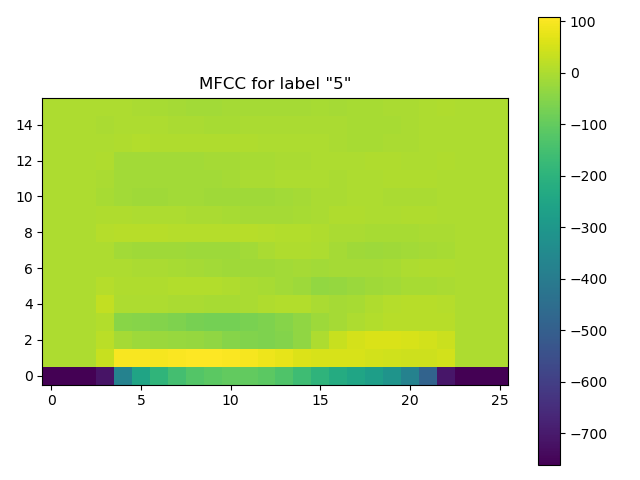
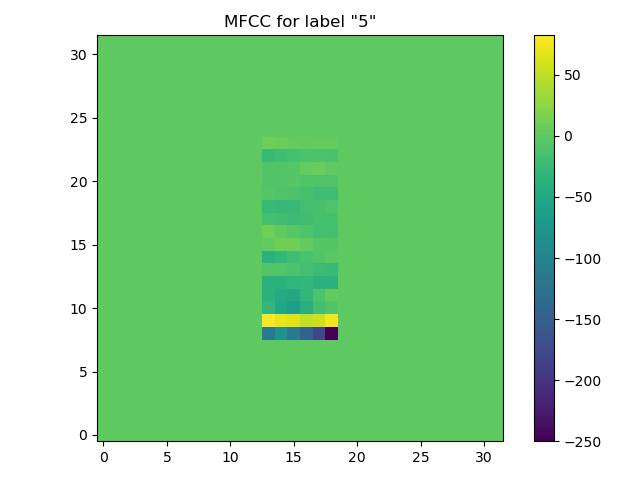
Edited plt for epoch print & editing of mfcc shape

diff --git a/datasets/mfcc_dataset.py b/datasets/mfcc_dataset.py
@@ -10,8 +10,8 @@ import torch.nn.functional as F
 import utils.audioProcessing as audioProcessing
 
 class MFCCDataset(Dataset):
-    def __init__(self, data_path, sample_rate, max_length,
-                hop_length=512, n_samples=16, channel_in=1):
+    def __init__(self, data_path, sample_rate, max_shape,
+                hop_length=512, n_samples=16, channel_in=1, max_length=None):
         print("-----MFCC Dataset creation-----\n")
         self.data_path = str(data_path)
         self.data = []
@@ -19,12 +19,15 @@ class MFCCDataset(Dataset):
         for src_file in os.listdir(data_path):
             full_path = os.path.join(data_path, src_file)
             audio, _ = librosa.load(full_path, mono=True, sr=sample_rate)
+            # Remove silence
             audio = audioProcessing.remove_silence(audio)
-            if len(audio) < max_length:
-                audio = audioProcessing.pad_audio_both(audio, 
-                                                        max_length=max_length)
-            else:
-                audio = audio[:max_length]
+            # Trimming or padding
+            if max_length is not None:
+                if len(audio) < max_length:
+                    audio = audioProcessing.pad_audio_both(audio, 
+                                                            max_length=max_length)
+                else:
+                    audio = audio[:max_length]
 
             mfcc = librosa.feature.mfcc(y=audio, 
                                         sr=sample_rate, 
@@ -35,15 +38,13 @@ class MFCCDataset(Dataset):
             mfcc = torch.from_numpy(mfcc).float()
              # TODO (Cong Sheng): Refactor for flexibility
             if channel_in==1: 
+                mfcc = self.padMFCC(mfcc, max_shape)
                 mfcc = torch.reshape(mfcc, (1, mfcc.shape[0], mfcc.shape[1]))
+            if channel_in==2:
+                mfcc = self.padMFCC(mfcc, max_shape)
+                mfcc = torch.stack([mfcc, mfcc], dim=0)
             if channel_in==3:
-                l_mfcc, w_mfcc = mfcc.shape[0], mfcc.shape[1]
-                r_pad = int((227 - w_mfcc) / 2)
-                l_pad = 227 - r_pad - w_mfcc
-                t_pad = int((227 - l_mfcc) / 2)
-                b_pad = 227 - t_pad - l_mfcc
-                pad_dim = (l_pad, r_pad, t_pad, b_pad)
-                mfcc = F.pad(mfcc, pad_dim, mode='constant', value=0) 
+                mfcc = self.padMFCC(mfcc, max_shape)
                 mfcc = torch.stack([mfcc, mfcc, mfcc], dim=0)
 
             self.data.append(mfcc)
@@ -56,6 +57,18 @@ class MFCCDataset(Dataset):
         X = self.data[index]
         Y = self.labels[index]
         return [X, Y]
+    
+    def padMFCC(self, mfcc, shapeDesired, padMode='constant', valuePad=0):
+        lenMFCC, widthMFCC = mfcc.shape[0], mfcc.shape[1]
+        (lenGoal, widthGoal) = shapeDesired
+        assert lenMFCC <= lenGoal or widthMFCC <= widthGoal, "MFCC too large, consider reducing n_mfcc or increasing hop length"
+        rightPad = int((widthGoal - widthMFCC)/2)
+        topPad = int((lenGoal - lenMFCC)/2)
+        leftPad = widthGoal - widthMFCC - rightPad
+        btmPad = lenGoal - lenMFCC - topPad
+        padDim = (leftPad, rightPad, topPad, btmPad)
+        mfccGoal = F.pad(mfcc, padDim, mode=padMode, value=valuePad)
+        return mfccGoal
 
 if __name__ == '__main__':
     sr = 8000

diff --git a/main.py b/main.py
@@ -18,7 +18,7 @@ device = torch.device("cuda") if torch.cuda.is_available() else torch.device("cp
 print(f"Using {device} :D ")
 
 SAMPLE_RATE = 8000
-MAX_AUDIO_LENGTH = 0.8
+MAX_SHAPE = (32, 32)
 
 def main(args):
     # Logging
@@ -38,10 +38,10 @@ def main(args):
     assert args.dataset_type=="mfcc", 'Invalid dataset type'
     if args.dataset_type =="mfcc":
         full_ds = mfcc_dataset.MFCCDataset(args.data_path, 
-                                                    sample_rate=SAMPLE_RATE, 
-                                                    max_length=int(SAMPLE_RATE*MAX_AUDIO_LENGTH),
+                                                    sample_rate=SAMPLE_RATE,
+                                                    max_shape = MAX_SHAPE,
                                                     channel_in=args.channel_in,
-                                                    hop_length=256)
+                                                    hop_length=512)
         full_ds_len = full_ds.__len__()
     
     # Split dataset and implement dataloader
@@ -56,6 +56,7 @@ def main(args):
     
     # Setting up neural net
     spikingMode = False
+    iterCount = 0
     modelName = args.model_name
     if modelName=="AlexCNN":
         model = AlexCNN.AlexNet().to(device)
@@ -86,7 +87,7 @@ def main(args):
     # Train
     if modelName == "AlexSCNN" or modelName == "CustomSCNN":
         spikingMode = True
-        model, train_loss_hist, train_accu_hist = train.trainSNet(device, model, train_dl, 
+        model, train_loss_hist, train_accu_hist, iterCount = train.trainSNet(device, model, train_dl, 
                                                             epoch_num, optimizer, criterion, args.num_steps,
                                                             train_loss_hist, train_accu_hist, 
                                                             checkpoint_path, modelName)
@@ -97,7 +98,7 @@ def main(args):
                                                             checkpoint_path, modelName)
 
     imgPath = os.path.join(args.img_path, 'train--{}-{}{}.png'.format(modelName, epoch_num, addInfo))
-    plotFigure.plotTrainingProgTwin(train_accu_hist, train_loss_hist, imgPath, spiking=spikingMode)
+    plotFigure.plotTrainingProgTwin(train_accu_hist, train_loss_hist, imgPath, iterCount, spiking=spikingMode)
     
     # Test
     if args.test=="Y":

diff --git a/models/CustomCNN.py b/models/CustomCNN.py
@@ -5,12 +5,13 @@ import snntorch as snn
 from snntorch import utils as sutils
 
 class customNet(nn.Module):
+    ## Set max shape = (32, 32)
     def __init__(self):
         super().__init__()
-        self.conv1 = nn.Conv2d(1, 6, 3)
-        self.pool = nn.MaxPool2d(2, 2)
-        self.conv2 = nn.Conv2d(6, 16, 3)
-        self.fc1 = nn.Linear(160, 128)
+        self.conv1 = nn.Conv2d(1, 6, 3) # (6 ,30, 30)
+        self.pool = nn.MaxPool2d(2, 2)  # (6, 15, 15)
+        self.conv2 = nn.Conv2d(6, 16, 3) # (16, 13, 13)
+        self.fc1 = nn.Linear(576, 128)
         self.fc2 = nn.Linear(128, 64)
         self.fc3 = nn.Linear(64, 10)
 
@@ -29,12 +30,12 @@ class customSNet(nn.Module):
         self.num_steps = num_steps
         self.conv1 = nn.Conv2d(1, 6, 3)
         self.lif1 = snn.Leaky(beta=beta, spike_grad=spike_grad)
-        #self.pool = nn.MaxPool2d(2, 2)
+        self.pool = nn.MaxPool2d(2, 2)
         self.conv2 = nn.Conv2d(6, 16, 3)
         self.lif2 = snn.Leaky(beta=beta, spike_grad=spike_grad)
-        self.fc1 = nn.Linear(4224, 256)
+        self.fc1 = nn.Linear(12544, 128) # 12544 for no pooling, 2704 for 1 pooling, 576 for 2 poolings
         self.lif3 = snn.Leaky(beta=beta, spike_grad=spike_grad)
-        self.fc2 = nn.Linear(256, 64)
+        self.fc2 = nn.Linear(128, 64)
         self.lif4 = snn.Leaky(beta=beta, spike_grad=spike_grad)
         self.fc3 = nn.Linear(64, 10)
         self.lif5 = snn.Leaky(beta=beta, spike_grad=spike_grad)
@@ -53,8 +54,10 @@ class customSNet(nn.Module):
         mem5_rec = []
 
         for step in range(self.num_steps):
+            # cur1 = self.pool(self.conv1(x))
             cur1 = self.conv1(x)
             spk1, mem1 = self.lif1(cur1, mem1)
+            # cur2 = self.pool(self.conv2(spk1))
             cur2 = self.conv2(spk1)
             spk2, mem2 = self.lif2(cur2, mem2)
             cur3 = self.fc1(spk2.view(batch_size_curr, -1))

diff --git a/utils/plotFigure.py b/utils/plotFigure.py
@@ -1,16 +1,23 @@
 import matplotlib.pyplot as plt
 import numpy as np
 
-def plotTrainingProgTwin(hist, loss, figsaveDir, 
+def plotTrainingProgTwin(hist, loss, figsaveDir, iterCount=0, 
                         figsizeIn=(10, 5), spiking=False):
-    x_axis = np.arange(0, len(hist), 1)
     fig, ax = plt.subplots(figsize=figsizeIn)
     ax2 = ax.twinx()
-    ax.plot(x_axis, hist, 'b-o', label="Accuracy")
-    ax2.plot(x_axis, loss, 'g-o', label="Loss")
-    ax.set_xlabel('Epoch Number')
+    
     if spiking:
-        ax.set_xlabel("Iteration")
+        x_axis = np.arange(1, len(hist)/iterCount+1, 1)
+        ax.plot(x_axis, hist[::iterCount], 'b-o', label="Accuracy")
+        ax2.plot(x_axis, loss[::iterCount], 'g-o', label="Loss")
+        ax.set_xlabel("Epoch")
+    else:
+        x_axis = np.arange(1, len(hist)+1, 1)
+        ax.plot(x_axis, hist, 'b-o', label="Accuracy")
+        ax2.plot(x_axis, loss, 'g-o', label="Loss")
+        ax.set_xlabel('Epoch Number')
+    
+    
     ax.set_ylabel("Accuracy", color='b')
     ax2.set_ylabel("Loss", color='g')
     plt.tight_layout()

diff --git a/models/train.py b/models/train.py
@@ -66,5 +66,5 @@ def trainSNet(device, model, train_dl, epoch_num, optimizer, loss_fn, num_steps,
     torch.save(model.state_dict(), os.path.join(
         checkpoint_path, 'train--{}-{}.chkpt'.format(modelName, epoch_num)
     ))
-    return model, train_loss_hist, train_accu_hist
+    return model, train_loss_hist, train_accu_hist, iterCount
         
